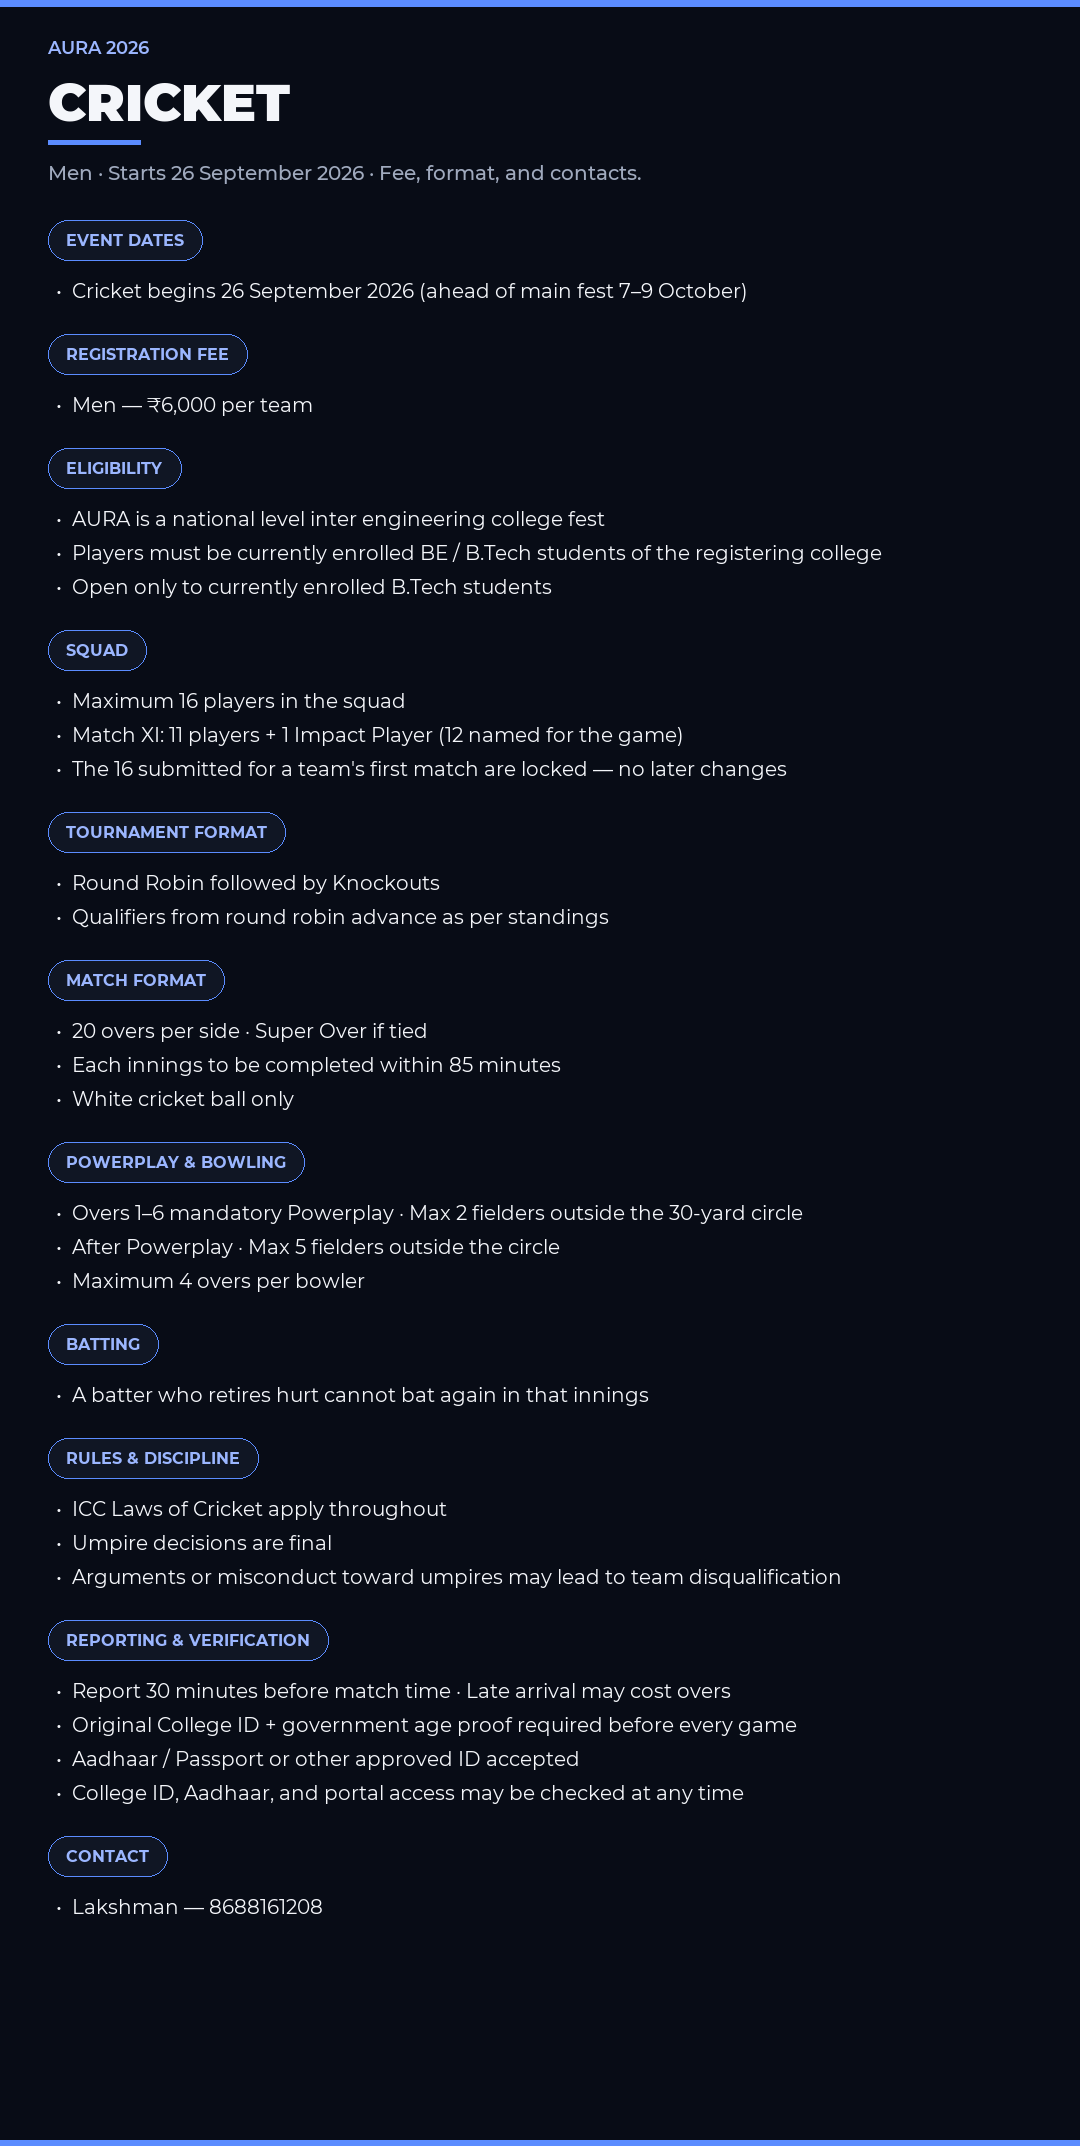
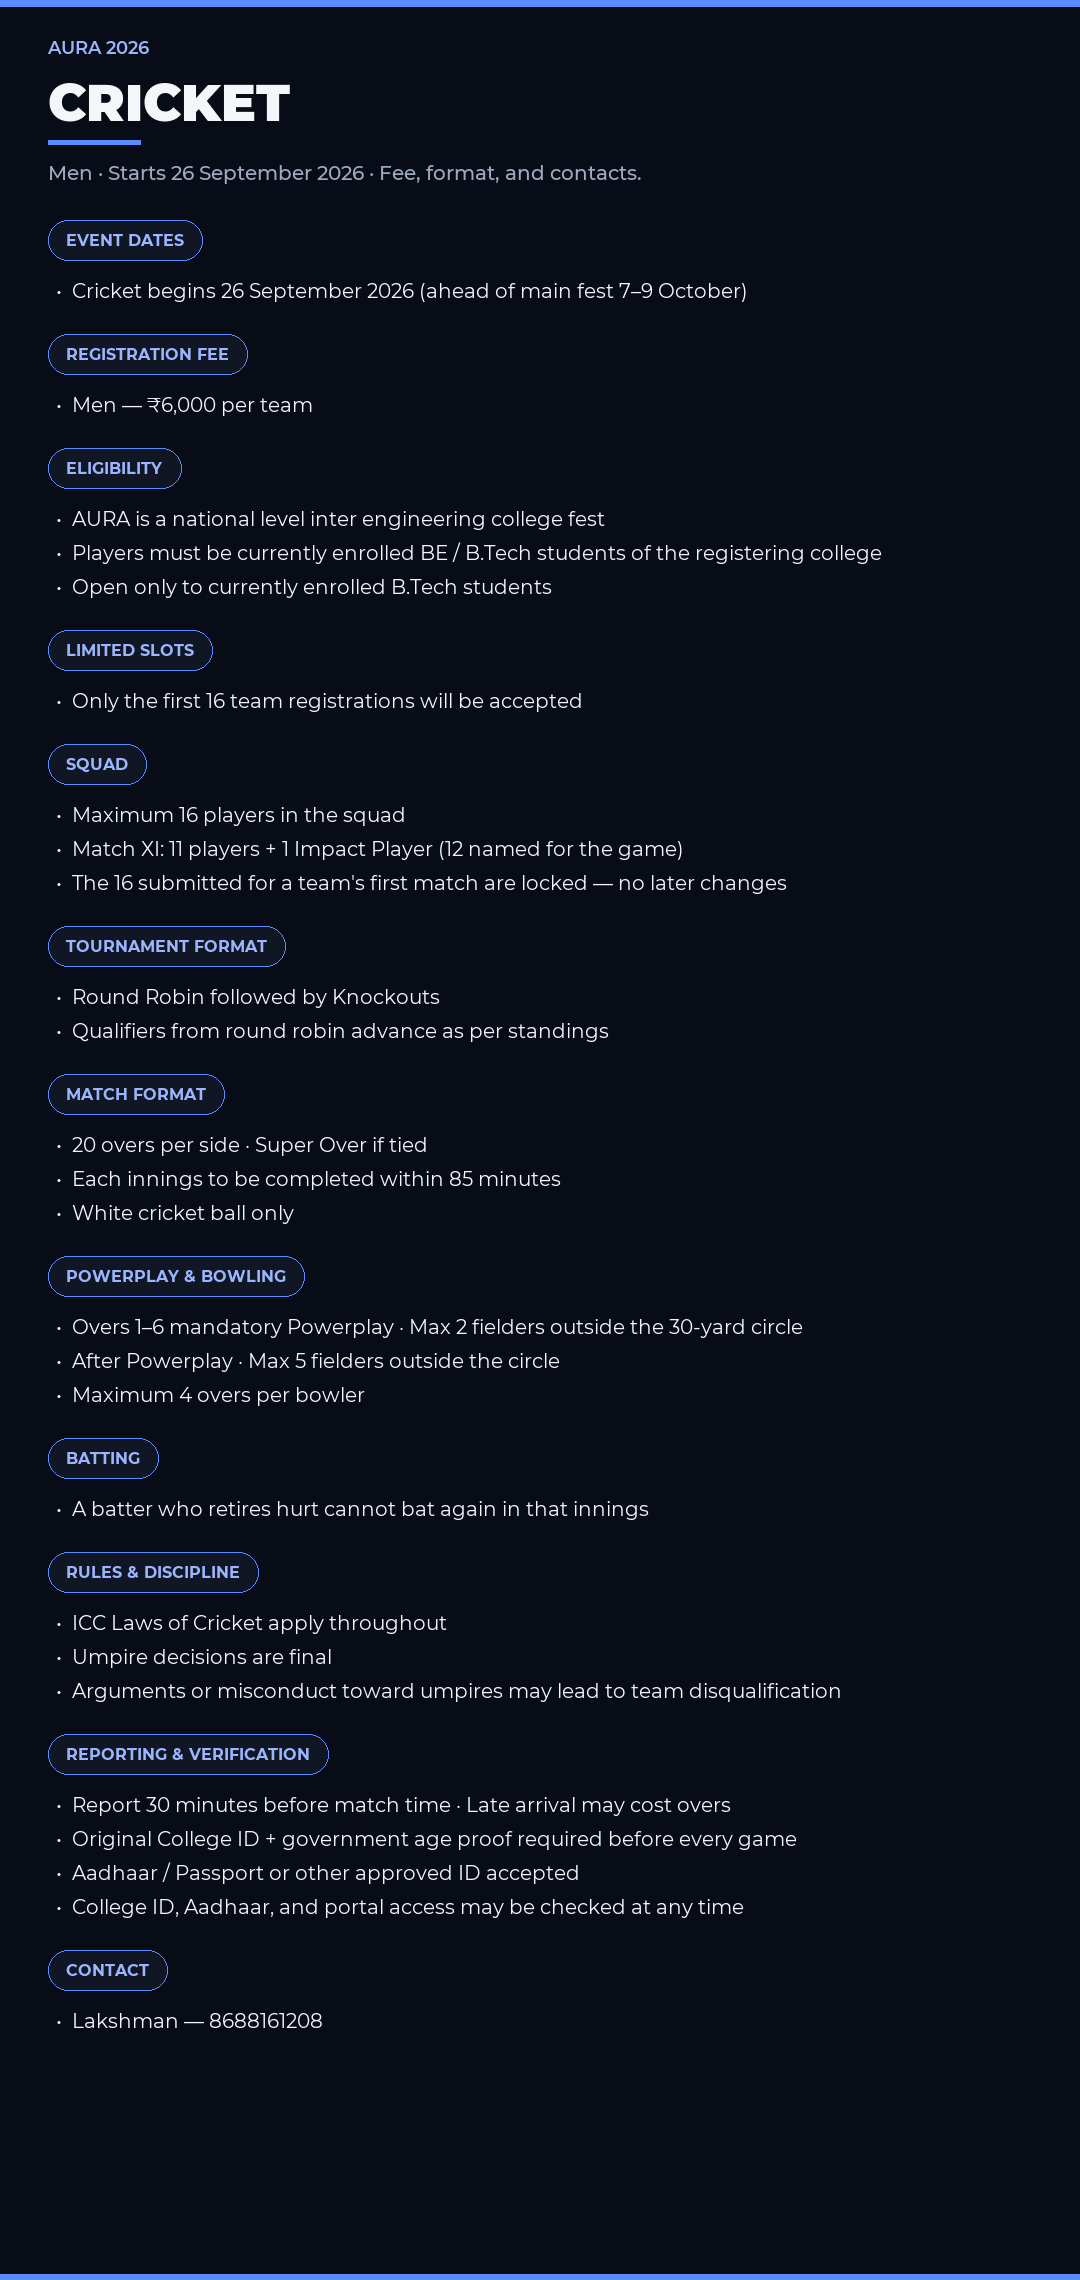
Football squad cap to 16; cap Cricket at first 16 team registrations.
Football's max squad size corrected from 18 to 16 players.
Cricket now gets the same "first 16 team registrations only" limit
that Football already has, shown on the rules sheet, the homepage
card, and the register-flow date banner.

Changed region(s): [[0.0306, 0.0, 0.7639, 0.9054], [0.3667, 0.0624, 0.5806, 0.0937], [0.1833, 0.8742, 0.3056, 0.9054]]

diff --git a/index.html b/index.html
@@ -355,8 +355,8 @@
             </div>
             <div class="sport-body">
               <h3>Cricket</h3>
-              <div class="sport-tags"><span class="tag tag-men">Men</span><span class="tag tag-outdoor">Outdoor</span><span class="tag">From 26 Sep</span></div>
-              <p>Starts <strong>26 September 2026</strong> — early brackets so the full tournament runs clean.</p>
+              <div class="sport-tags"><span class="tag tag-men">Men</span><span class="tag tag-outdoor">Outdoor</span><span class="tag">From 26 Sep</span><span class="tag tag-limited">First 16 teams only</span></div>
+              <p>Starts <strong>26 September 2026</strong> — early brackets so the full tournament runs clean. <strong>Only the first 16 team registrations will be accepted.</strong></p>
               <div class="sport-foot">
                 <a class="soon" href="rules.html?sport=cricket" style="text-decoration:none">View rules →</a>
                 <span class="type">Team</span>

diff --git a/js/config.js b/js/config.js
@@ -110,7 +110,8 @@ window.AURA_CONFIG = {
       feeRupees: 6000,
       eventDates: "Starts 26 September 2026",
       eventDatesNote:
-        "Cricket begins on 26 September 2026 (ahead of the main fest window of 7–9 October).",
+        "Cricket begins on 26 September 2026 (ahead of the main fest window of 7–9 October). Only the first 16 team registrations will be accepted.",
+      capacityNote: "Limited to the first 16 team registrations.",
     },
     {
       id: "basketball",
